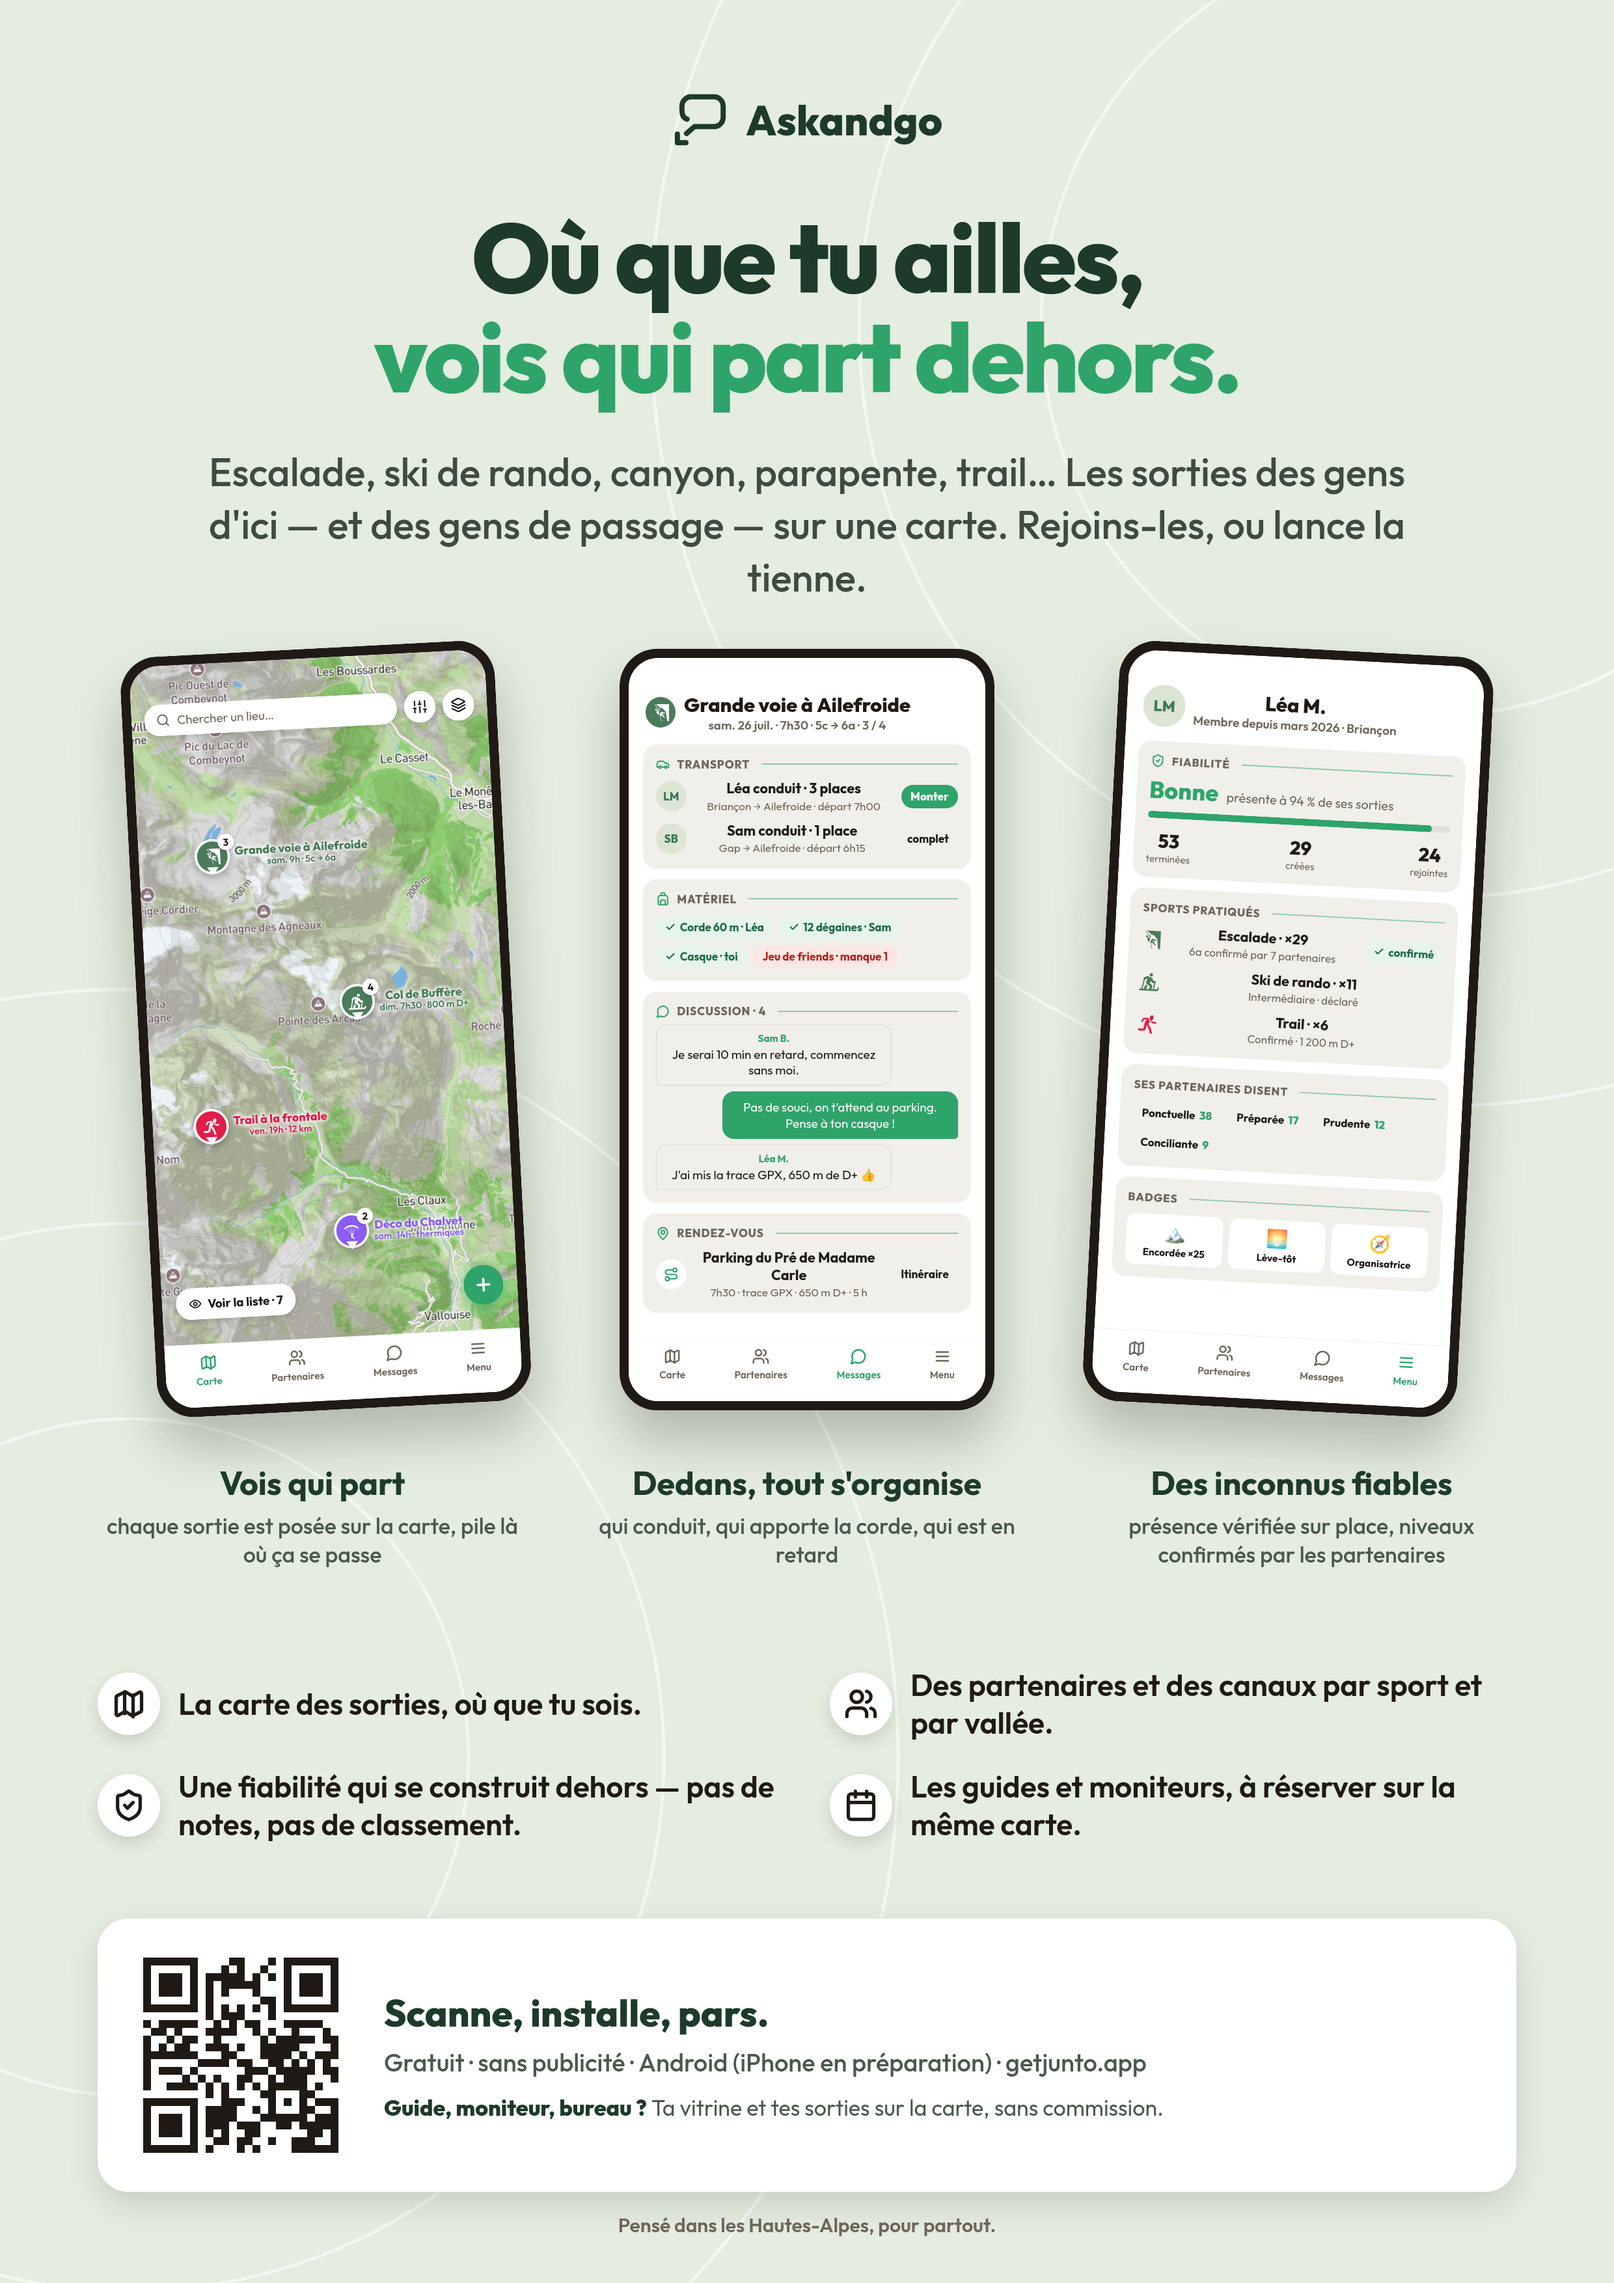
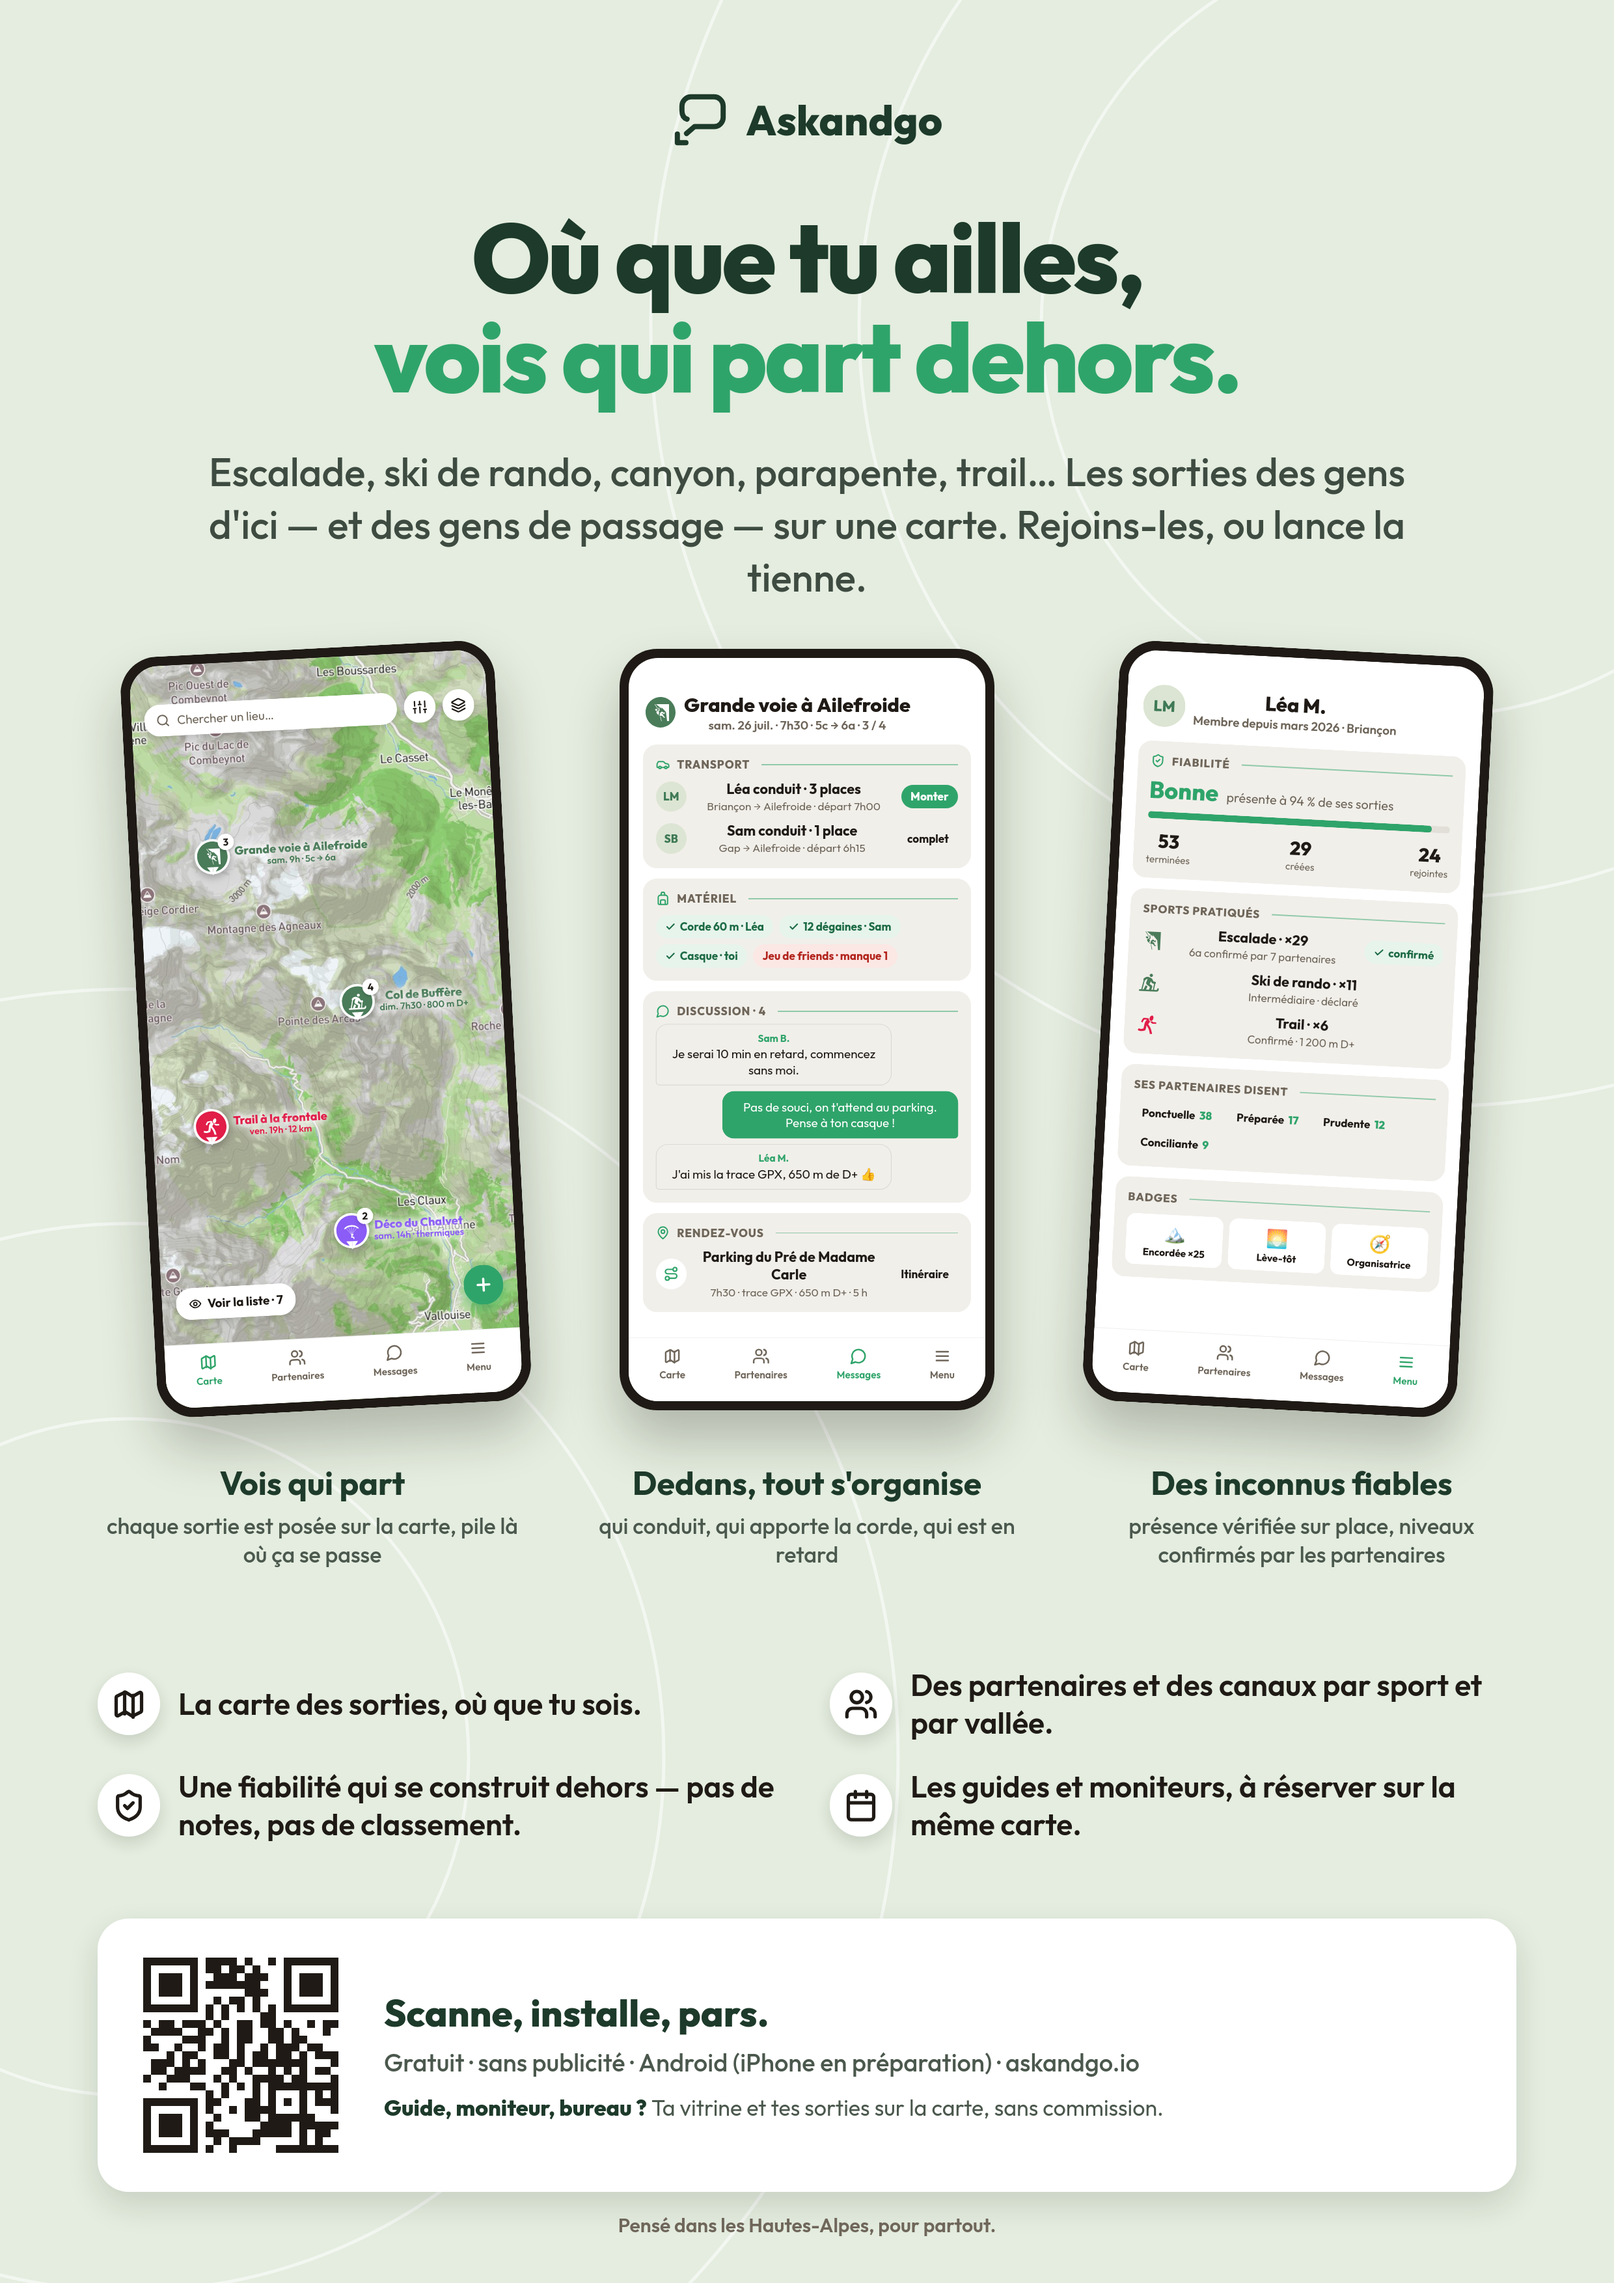
docs(affiche): poster QR and address point to askandgo.io
The QR still encoded https://getjunto.app (decoded by regenerating it) and the footer said getjunto.app. Background image path made relative so the poster survives the folder rename. PNG re-rendered at A4 300 dpi.

Changed region(s): [[0.0931, 0.8389, 0.2173, 0.9632], [0.652, 0.9011, 0.7141, 0.9322], [0.7762, 0.4039, 0.8073, 0.435]]

diff --git a/assets/affiche/affiche-a4.html b/assets/affiche/affiche-a4.html
@@ -76,7 +76,7 @@ body{background:#E4EDDF}
  <div class="title">Où que tu ailles,<br><em>vois qui part dehors.</em></div>
  <div class="lead">Escalade, ski de rando, canyon, parapente, trail… Les sorties des gens d'ici — et des gens de passage — sur une carte. Rejoins-les, ou lance la tienne.</div>
  <div class="phones">
-  <div class="pw" style="left:0;transform:scale(.9) rotate(-3deg)"><div class="phone"><div class="scr"><div style="position:absolute;inset:0;background:url(file:///home/torof/Desktop/Junto/web/public/hero-map-ecrins.jpg) center/cover"></div>
+  <div class="pw" style="left:0;transform:scale(.9) rotate(-3deg)"><div class="phone"><div class="scr"><div style="position:absolute;inset:0;background:url(../../web/public/hero-map-ecrins.jpg) center/cover"></div>
 <div style="position:absolute;left:22px;right:22px;top:66px;display:flex;gap:12px;align-items:center">
  <div style="flex:1;display:flex;align-items:center;gap:12px;background:#FFF;border-radius:999px;padding:14px 20px;font-size:21px;color:#6F665A;box-shadow:0 4px 12px rgba(0,0,0,.14)"><svg class="li" width="24" height="24" viewBox="0 0 24 24" fill="none" stroke="#6F665A" stroke-width="2.2" stroke-linecap="round" stroke-linejoin="round"><circle cx="11" cy="11" r="8"/><path d="m21 21-4.3-4.3"/></svg>Chercher un lieu…</div>
  <div style="width:54px;height:54px;border-radius:50%;background:#FFF;display:flex;align-items:center;justify-content:center;box-shadow:0 4px 12px rgba(0,0,0,.14)"><svg class="li" width="26" height="26" viewBox="0 0 24 24" fill="none" stroke="#1F1A15" stroke-width="2.2" stroke-linecap="round" stroke-linejoin="round"><path d="M4 21v-7M4 10V3M12 21v-9M12 8V3M20 21v-5M20 12V3M2 14h4M10 8h4M18 16h4"/></svg></div>
@@ -118,7 +118,7 @@ body{background:#E4EDDF}
  <div class="caps"><div class="cap"><b>Vois qui part</b><span>chaque sortie est posée sur la carte, pile là où ça se passe</span></div><div class="cap"><b>Dedans, tout s'organise</b><span>qui conduit, qui apporte la corde, qui est en retard</span></div><div class="cap"><b>Des inconnus fiables</b><span>présence vérifiée sur place, niveaux confirmés par les partenaires</span></div></div>
  <div class="bullets"><div class="bl"><span class="ic"><svg class="li" width="52" height="52" viewBox="0 0 24 24" fill="none" stroke="#1F1A15" stroke-width="2.4" stroke-linecap="round" stroke-linejoin="round"><path d="M14.1 6.3 9.9 3.7a1 1 0 0 0-1 0L3.5 6.4A1 1 0 0 0 3 7.3v12a1 1 0 0 0 1.5.9l4.4-2.5a1 1 0 0 1 1 0l4.2 2.6a1 1 0 0 0 1 0l5.4-2.7a1 1 0 0 0 .5-.9v-12a1 1 0 0 0-1.5-.9l-4.4 2.5a1 1 0 0 1-1 0"/><path d="M15 5.8v15.4M9 3.5v15.4"/></svg></span>La carte des sorties, où que tu sois.</div><div class="bl"><span class="ic"><svg class="li" width="52" height="52" viewBox="0 0 24 24" fill="none" stroke="#1F1A15" stroke-width="2.4" stroke-linecap="round" stroke-linejoin="round"><path d="M16 21v-2a4 4 0 0 0-4-4H6a4 4 0 0 0-4 4v2"/><circle cx="9" cy="7" r="4"/><path d="M22 21v-2a4 4 0 0 0-3-3.87"/><path d="M16 3.13a4 4 0 0 1 0 7.75"/></svg></span>Des partenaires et des canaux par sport et par vallée.</div><div class="bl"><span class="ic"><svg class="li" width="52" height="52" viewBox="0 0 24 24" fill="none" stroke="#1F1A15" stroke-width="2.4" stroke-linecap="round" stroke-linejoin="round"><path d="M20 13c0 5-3.5 7.5-7.7 9a.6.6 0 0 1-.6 0C7.5 20.5 4 18 4 13V6a1 1 0 0 1 1-1c2 0 4.5-1.2 6.2-2.7a1.2 1.2 0 0 1 1.6 0C14.5 3.8 17 5 19 5a1 1 0 0 1 1 1z"/><path d="m9 12 2 2 4-4"/></svg></span>Une fiabilité qui se construit dehors — pas de notes, pas de classement.</div><div class="bl"><span class="ic"><svg class="li" width="52" height="52" viewBox="0 0 24 24" fill="none" stroke="#1F1A15" stroke-width="2.4" stroke-linecap="round" stroke-linejoin="round"><rect x="3" y="4" width="18" height="18" rx="2"/><path d="M16 2v4M8 2v4M3 10h18"/></svg></span>Les guides et moniteurs, à réserver sur la même carte.</div></div>
 </div>
-<div class="foot"><div class="qr"><?xml version="1.0" encoding="utf-8"?><!DOCTYPE svg PUBLIC "-//W3C//DTD SVG 1.1//EN" "http://www.w3.org/Graphics/SVG/1.1/DTD/svg11.dtd"><svg xmlns="http://www.w3.org/2000/svg" viewBox="0 0 25 25" shape-rendering="crispEdges"><path stroke="#1F1A15" d="M0 0.5h7m4 0h2m3 0h1m1 0h7M0 1.5h1m5 0h1m3 0h1m1 0h1m2 0h1m2 0h1m5 0h1M0 2.5h1m1 0h3m1 0h1m1 0h5m1 0h1m1 0h1m1 0h1m1 0h3m1 0h1M0 3.5h1m1 0h3m1 0h1m1 0h1m1 0h5m3 0h1m1 0h3m1 0h1M0 4.5h1m1 0h3m1 0h1m1 0h1m1 0h1m3 0h1m3 0h1m1 0h3m1 0h1M0 5.5h1m5 0h1m1 0h1m6 0h2m1 0h1m5 0h1M0 6.5h7m1 0h1m1 0h1m1 0h1m1 0h1m1 0h1m1 0h7M8 7.5h1m1 0h3m3 0h1M0 8.5h1m1 0h5m2 0h1m1 0h1m1 0h2m3 0h5M1 9.5h2m1 0h1m3 0h4m2 0h1m1 0h1m2 0h1m3 0h1M0 10.5h1m2 0h1m1 0h2m2 0h1m5 0h1m1 0h5m1 0h2M0 11.5h1m1 0h1m1 0h2m2 0h3m1 0h1m2 0h5m4 0h1M0 12.5h7m3 0h2m3 0h4m1 0h1m1 0h3M0 13.5h1m6 0h4m1 0h2m2 0h2m1 0h1m1 0h1m1 0h1M0 14.5h1m1 0h3m1 0h1m6 0h3m1 0h5m1 0h2M0 15.5h1m4 0h1m1 0h1m1 0h1m2 0h2m2 0h1m1 0h3m3 0h1M0 16.5h1m2 0h4m1 0h1m1 0h1m1 0h1m1 0h1m1 0h5m1 0h1M8 17.5h1m1 0h1m4 0h2m3 0h2M0 18.5h7m3 0h3m3 0h1m1 0h1m1 0h1m1 0h3M0 19.5h1m5 0h1m1 0h4m2 0h1m1 0h1m3 0h2m2 0h1M0 20.5h1m1 0h3m1 0h1m1 0h4m3 0h6m1 0h3M0 21.5h1m1 0h3m1 0h1m1 0h3m1 0h3m2 0h2m1 0h5M0 22.5h1m1 0h3m1 0h1m1 0h1m1 0h1m2 0h2m6 0h2m1 0h1M0 23.5h1m5 0h1m2 0h2m1 0h2m2 0h1m2 0h3m2 0h1M0 24.5h7m1 0h1m3 0h1m1 0h1m4 0h6"/></svg>
-</div><div class="ft"><b>Scanne, installe, pars.</b><span>Gratuit · sans publicité · Android (iPhone en préparation) · getjunto.app</span><div class="pro"><b>Guide, moniteur, bureau ?</b> Ta vitrine et tes sorties sur la carte, sans commission.</div></div></div>
+<div class="foot"><div class="qr"><?xml version="1.0" encoding="utf-8"?><!DOCTYPE svg PUBLIC "-//W3C//DTD SVG 1.1//EN" "http://www.w3.org/Graphics/SVG/1.1/DTD/svg11.dtd"><svg xmlns="http://www.w3.org/2000/svg" viewBox="0 0 25 25" shape-rendering="crispEdges"><path stroke="#1F1A15" d="M0 0.5h7m1 0h4m1 0h1m2 0h1m1 0h7M0 1.5h1m5 0h1m1 0h2m1 0h2m1 0h1m3 0h1m5 0h1M0 2.5h1m1 0h3m1 0h1m2 0h3m1 0h3m2 0h1m1 0h3m1 0h1M0 3.5h1m1 0h3m1 0h1m1 0h7m3 0h1m1 0h3m1 0h1M0 4.5h1m1 0h3m1 0h1m6 0h3m2 0h1m1 0h3m1 0h1M0 5.5h1m5 0h1m2 0h1m1 0h2m1 0h1m3 0h1m5 0h1M0 6.5h7m1 0h1m1 0h1m1 0h1m1 0h1m1 0h1m1 0h7M8 7.5h1m1 0h1m4 0h2M0 8.5h1m1 0h2m1 0h3m1 0h1m2 0h2m1 0h2m1 0h1m2 0h1m1 0h2M1 9.5h4m2 0h2m1 0h1m1 0h2m2 0h2m1 0h1m3 0h1M0 10.5h1m4 0h3m2 0h1m1 0h2m2 0h2m1 0h2M0 11.5h2m2 0h1m2 0h1m1 0h2m1 0h1m2 0h1m1 0h3m1 0h2M3 12.5h1m1 0h2m2 0h2m1 0h1m1 0h2m1 0h2m1 0h1m1 0h3M1 13.5h3m1 0h1m1 0h1m3 0h2m1 0h7m3 0h1M1 14.5h2m1 0h4m2 0h2m1 0h1m2 0h1m1 0h1m1 0h1m1 0h2M0 15.5h1m2 0h3m3 0h1m1 0h1m2 0h4m1 0h2m3 0h1M2 16.5h1m3 0h2m2 0h1m1 0h1m1 0h1m1 0h9M8 17.5h1m1 0h1m3 0h1m1 0h1m3 0h1m1 0h1m1 0h1M0 18.5h7m1 0h2m3 0h2m1 0h1m1 0h1m1 0h1m1 0h3M0 19.5h1m5 0h1m1 0h1m2 0h1m1 0h4m3 0h1m3 0h1M0 20.5h1m1 0h3m1 0h1m2 0h1m3 0h2m1 0h6M0 21.5h1m1 0h3m1 0h1m1 0h1m6 0h4m1 0h5M0 22.5h1m1 0h3m1 0h1m1 0h3m3 0h5m1 0h1m1 0h2M0 23.5h1m5 0h1m2 0h1m1 0h4m5 0h1m1 0h1M0 24.5h7m1 0h1m2 0h1m5 0h8"/></svg>
+</div><div class="ft"><b>Scanne, installe, pars.</b><span>Gratuit · sans publicité · Android (iPhone en préparation) · askandgo.io</span><div class="pro"><b>Guide, moniteur, bureau ?</b> Ta vitrine et tes sorties sur la carte, sans commission.</div></div></div>
 <div class="hint">Pensé dans les Hautes-Alpes, pour partout.</div>
 </body></html>

diff --git a/assets/affiche/texte.md b/assets/affiche/texte.md
@@ -41,6 +41,6 @@ moniteurs et bureaux sont sur la même carte, avec photos, tarifs et réservatio
 Gratuit, sans publicité, sans revente de données.
 
 ## À trancher
-- Le QR pointe sur le site (téléchargement), à remplacer par le lien Play quand la fiche
-  est publiée. Le domaine askandgo n'étant pas choisi, toute impression faite avant porte
-  l'adresse actuelle : attendre le domaine pour imprimer, ou prévoir une réimpression.
+- Le QR pointe sur https://askandgo.io (2026-11-04 ; avant : getjunto.app, qui répond
+  toujours). À remplacer par le lien Play quand la fiche est publique, si on préfère
+  envoyer directement au téléchargement.
